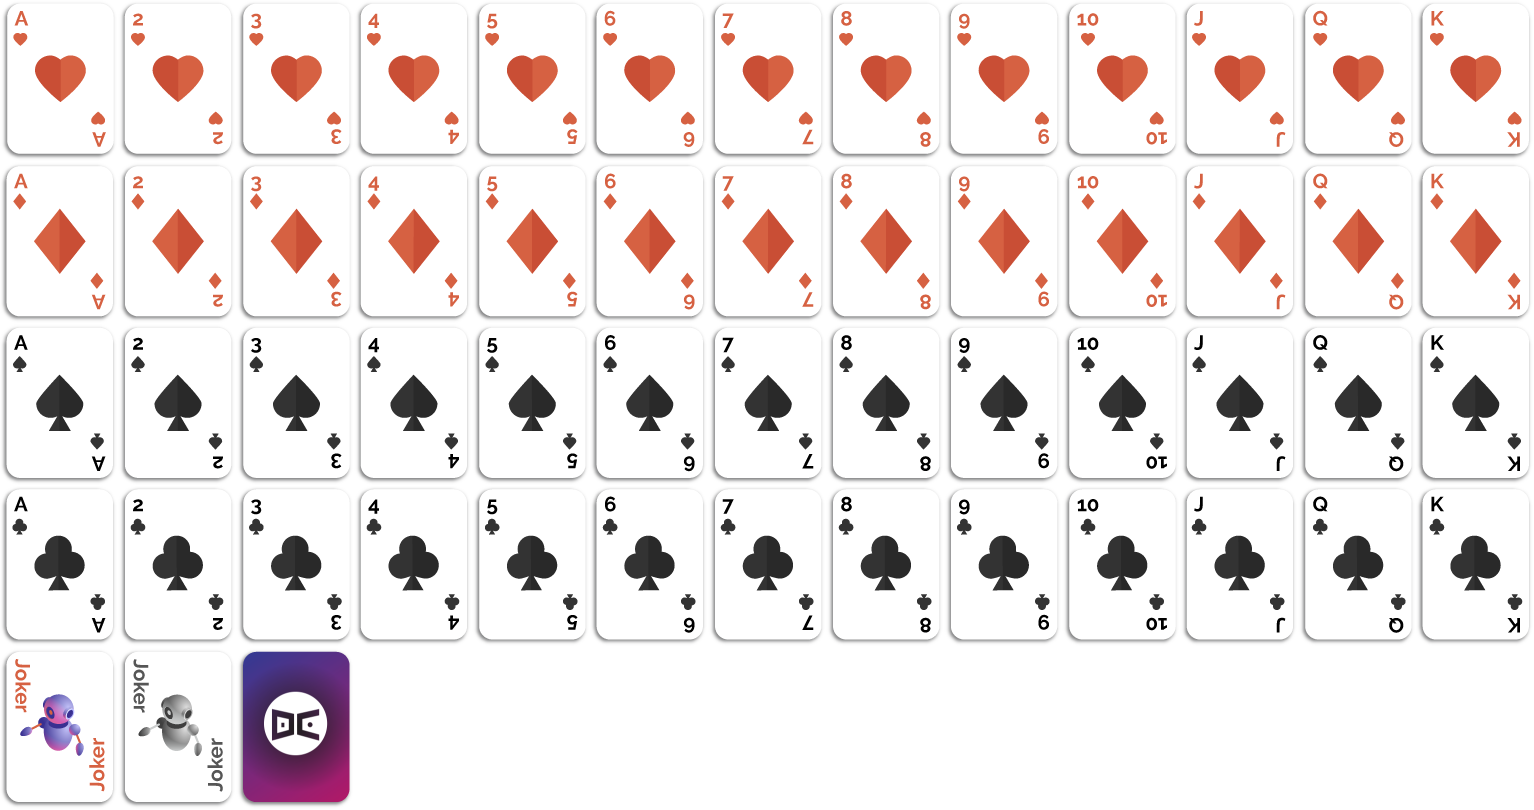
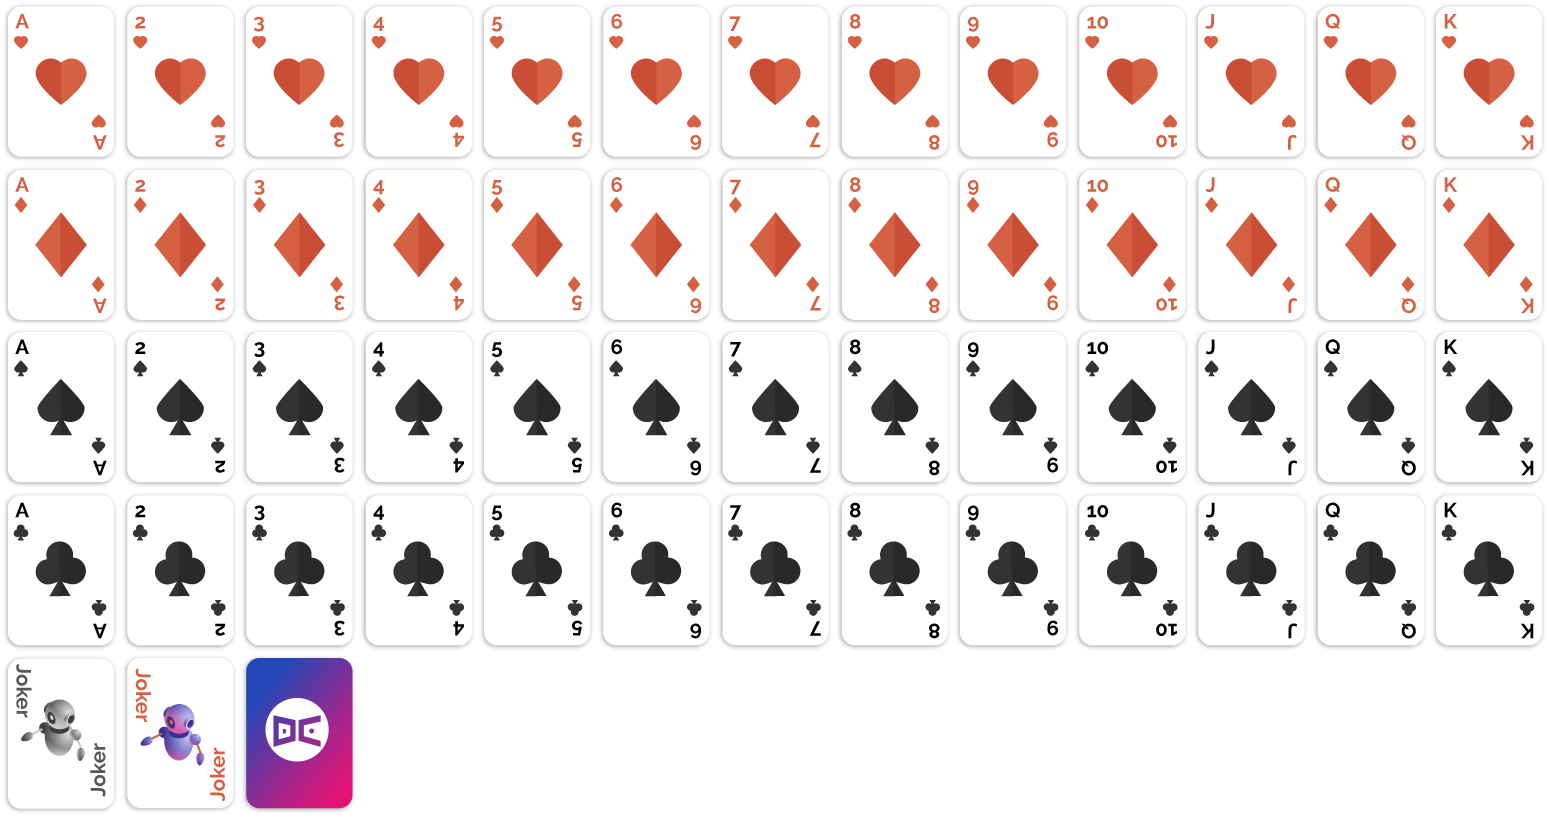
大小王位置调整

diff --git a/static/js/boot.js b/static/js/boot.js
@@ -15,8 +15,7 @@ PG.PH = 120;
 GLOBAL_W = 1920;
 GLOBAL_H = 1080;
 
-FAPAI_SPEED = 400;
-INIT_CARD_SPEED = 500;
+INIT_CARD_SPEED = 300;
 
 var game_bg = 1;
 var origin_innerh,origin_innerw;
@@ -54,7 +53,6 @@ function getDirection() {
 PG.Boot = {
     preload: function () {
         this.load.image('preloaderBar', 'static/i/preload.png');
-        this.load.image('logo','static/i/logo.png');
     },
     create: function () {
         var device = this.game.device;
@@ -211,9 +209,7 @@ PG.Preloader = {
         this.load.image('bg1_left_bottom', 'static/i/bg1_left_bottom.png');
         this.load.image('playing_bg','static/i/bg2.png');
         this.load.image('start','static/i/start.png');
-        this.load.image('fight_ai','static/i/fight_ai.png');
-        this.load.image('human_play','static/i/human_play.png');
-        this.load.spritesheet('poker', 'static/i/pokers.png', 118, 161.5);
+        this.load.spritesheet('poker', 'static/i/pokers.png', 119, 163);
         this.load.json('rule', 'static/rule.json');
         this.load.atlas('robot_and_btn', 'static/i/robot_and_btn.png', 'static/i/robot_and_btn.json');
         this.load.atlas('mode_btn', 'static/i/mode_btn.png', 'static/i/mode_btn.json');

diff --git a/static/js/player.js b/static/js/player.js
@@ -310,7 +310,7 @@ PG.Player.prototype.dealPokerAnim = function (p, i) {
     this.game.add.tween(p).to({
         x: this.game.world.width / 2 + PG.PW * 0.5 * (i - 8.5),
         y: this.game.world.height - 140
-    }, FAPAI_SPEED, Phaser.Easing.Default, true, 50 * i);
+    }, INIT_CARD_SPEED, Phaser.Easing.Default, true, 50 * i);
 };
 
 PG.Player.prototype.arrangePoker = function () {

diff --git a/static/js/rule.js b/static/js/rule.js
@@ -41,9 +41,9 @@ PG.Poker.toCards = function (pokers) {
             pid = pid[0];
         }
         if (pid == 52) {
-            cards.push('W');
-        } else if (pid == 53) {
             cards.push('w');
+        } else if (pid == 53) {
+            cards.push('W');
         } else {
             cards.push("A234567890JQK"[pid % 13]);
         }

diff --git a/apps/game/components/simple.py b/apps/game/components/simple.py
@@ -100,10 +100,10 @@ class AiPlayer(Player):
         used = set()
         for need_card in need_cards:
             # print(need_card)
-            if need_card == 17 and 52 in self.hand_pokers:
-                pokers.append(52)
-            elif need_card == 16 and 53 in self.hand_pokers:
+            if need_card == 17 and 53 in self.hand_pokers:
                 pokers.append(53)
+            elif need_card == 16 and 52 in self.hand_pokers:
+                pokers.append(52)
             elif need_card < 16:
                 if need_card == 14 or need_card == 15:
                     need_card -= 14
@@ -125,9 +125,9 @@ class AiPlayer(Player):
         # print(cards)
         for card in cards:
             if card == 52:
-                res.append(17)
-            elif card == 53:
                 res.append(16)
+            elif card == 53:
+                res.append(17)
             else:
                 tmp = card%13 + 1
                 if tmp == 1 or tmp == 2:

diff --git a/apps/game/rule.py b/apps/game/rule.py
@@ -65,18 +65,18 @@ class Rule(object):
         cards = []
         for p in pokers:
             if p == 52:
-                cards.append('W')
-            elif p == 53:
                 cards.append('w')
+            elif p == 53:
+                cards.append('W')
             else:
                 cards.append('A234567890JQK'[p % 13])
         return Rule._sort_card(cards)
 
     @staticmethod
     def _to_poker(card):
-        if card == 'W':
-            return [52]
         if card == 'w':
+            return [52]
+        if card == 'W':
             return [53]
 
         cards = 'A234567890JQK'
